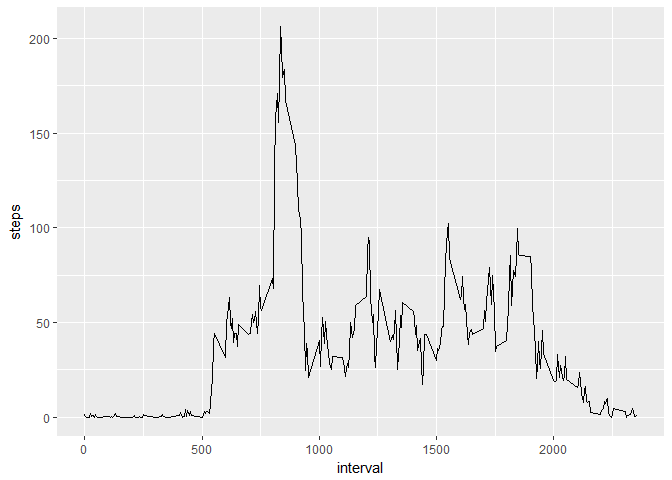
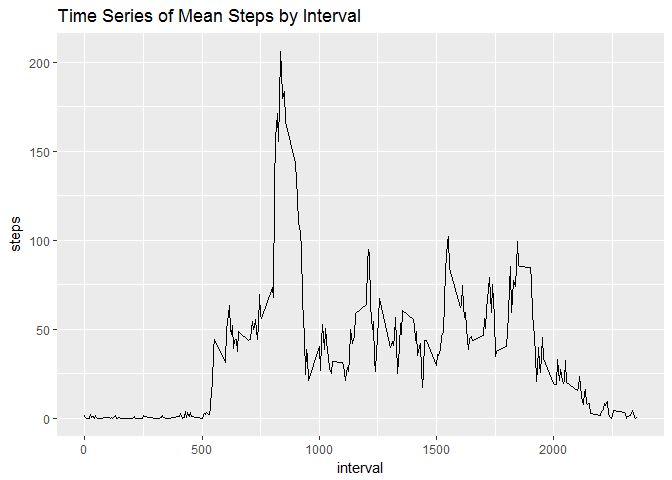
forgot to knit

diff --git a/PA1_template.html b/PA1_template.html
@@ -131,8 +131,8 @@ activitydata &lt;- read.csv(&quot;activity.csv&quot;, colClasses = c(&quot;numer
 <div id="histogram-of-the-sum-of-the-steps-based-on-date" class="section level3">
 <h3>Histogram of the sum of the steps based on date</h3>
 <pre class="r"><code>sumsteps &lt;- aggregate(steps~date, activitydata, sum, na.action = na.omit)
-hist(sumsteps$steps)</code></pre>
[1 lines of base64/hex data omitted]
+hist(sumsteps$steps, main = &quot;Total Steps per Day&quot;, xlab = &quot;Steps&quot;)</code></pre>
[1 lines of base64/hex data omitted]
 </div>
 <div id="mean-steps-per-date" class="section level3">
 <h3>Mean steps per date</h3>
@@ -259,8 +259,9 @@ mediansteps</code></pre>
 <div id="average-steps-by-interval-across-all-days" class="section level3">
 <h3>Average steps by interval across all days</h3>
 <pre class="r"><code>ggplot(meanstepsinterval, aes(interval, steps))  + 
-        geom_line()</code></pre>
[1 lines of base64/hex data omitted]
+        geom_line() +
+        ggtitle(&quot;Time Series of Mean Steps by Interval&quot;)</code></pre>
[1 lines of base64/hex data omitted]
 </div>
 <div id="interval-that-saw-the-most-average-steps" class="section level3">
 <h3>Interval that saw the most average steps</h3>
@@ -288,8 +289,8 @@ if (is.na(repdata$steps[i]) == T){
 </div>
 <div id="total-number-of-steps-by-day-with-imputed-data" class="section level3">
 <h3>Total number of steps by day with imputed data</h3>
-<pre class="r"><code>hist(aggregate(steps~date, repdata, sum)$steps)</code></pre>
[1 lines of base64/hex data omitted]
+<pre class="r"><code>hist(aggregate(steps~date, repdata, sum)$steps, main=&quot;Total Steps by Day&quot;, xlab = &quot;Steps&quot;)</code></pre>
[1 lines of base64/hex data omitted]
 <pre class="r"><code>for(i in 1:nrow(repdata)) {
 if(weekdays(repdata$date[i])==&quot;Saturday&quot; | weekdays(repdata$date[i])==&quot;Sunday&quot;){
         repdata$daytype[i] &lt;- &quot;Weekend&quot;

diff --git a/PA1_template.md b/PA1_template.md
@@ -16,7 +16,7 @@ activitydata <- read.csv("activity.csv", colClasses = c("numeric", "Date", "nume
 
 ```r
 sumsteps <- aggregate(steps~date, activitydata, sum, na.action = na.omit)
-hist(sumsteps$steps)
+hist(sumsteps$steps, main = "Total Steps per Day", xlab = "Steps")
 ```
 
 ![](PA1_template_files/figure-html/steps by date histogram-1.png)<!-- -->
@@ -158,7 +158,8 @@ meanstepsinterval <- aggregate(steps~interval, activitydata, mean)
 
 ```r
 ggplot(meanstepsinterval, aes(interval, steps))  + 
-        geom_line()
+        geom_line() +
+        ggtitle("Time Series of Mean Steps by Interval")
 ```
 
 ![](PA1_template_files/figure-html/mean steps by interval-1.png)<!-- -->
@@ -201,7 +202,7 @@ if (is.na(repdata$steps[i]) == T){
 ###Total number of steps by day with imputed data
 
 ```r
-hist(aggregate(steps~date, repdata, sum)$steps)
+hist(aggregate(steps~date, repdata, sum)$steps, main="Total Steps by Day", xlab = "Steps")
 ```
 
 ![](PA1_template_files/figure-html/steps by date on replaced data-1.png)<!-- -->
